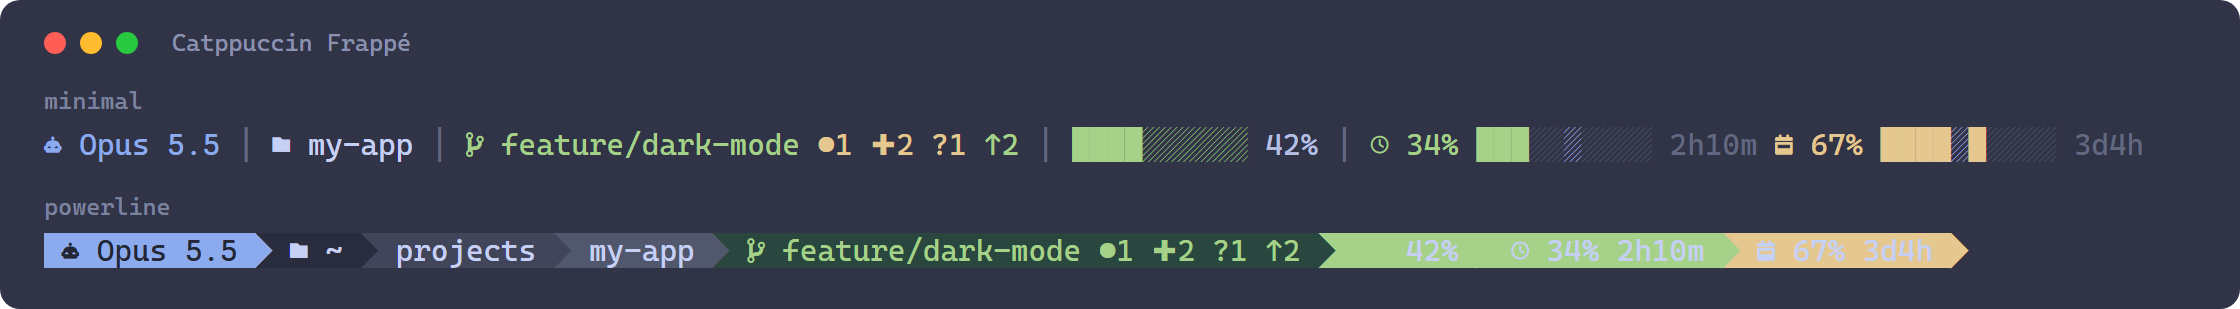
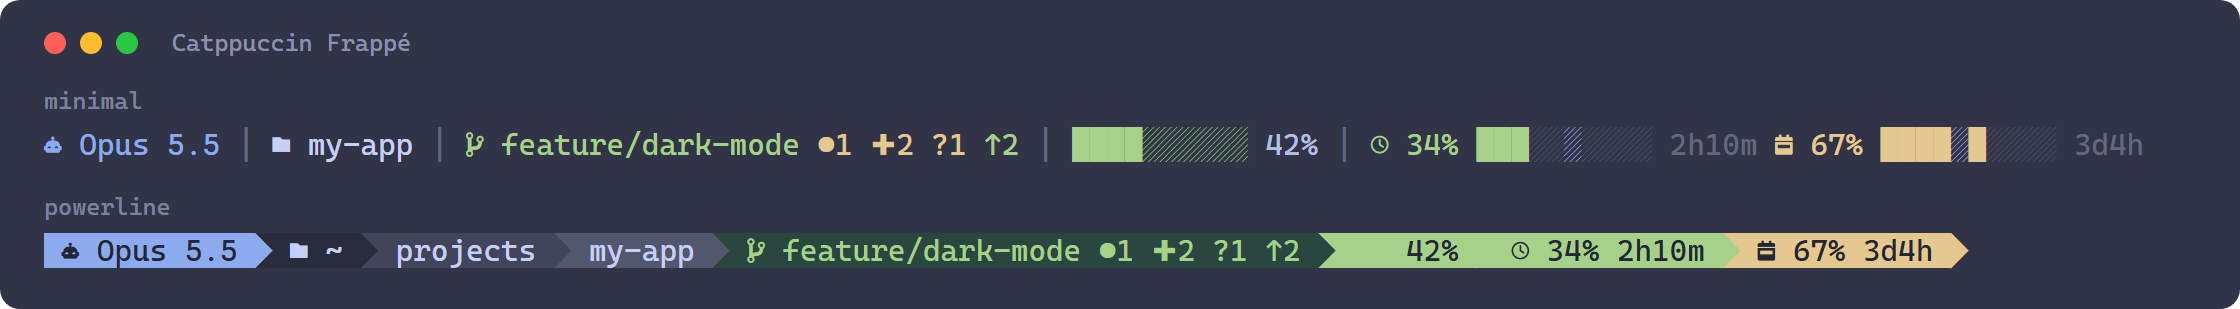
v0.1.1
### Fixed

- Powerline styles: the context and rate-limit segments were hard to read — light text on a light
  green / yellow / red background in the dark schemes. Their text color is now chosen per
  segment for the higher contrast (WCAG ratio ≥ 4.5 in every scheme)
- Catppuccin Latte, powerline styles: darker green for the git segment text

Changed region(s): [[0.625, 0.7573, 0.875, 0.8447]]

diff --git a/statusline.py b/statusline.py
@@ -5,7 +5,7 @@ from datetime import datetime, timezone
 
 sys.stdout = io.TextIOWrapper(sys.stdout.buffer, encoding="utf-8")
 
-__version__ = "0.1.0"
+__version__ = "0.1.1"
 
 # ── Config ──────────────────────────────────────────────────────────
 STYLE = "minimal"  # "minimal" | "powerline" | "powerline-short"
@@ -110,6 +110,7 @@ PALETTES = {
         "BAR_OK":   (180, 180, 180),  # Gray
         "BAR_WARN": (180, 180, 180),  # Gray
         "BAR_CRIT": (180, 180, 180),  # Gray
+        "FG_ON_BAR": ((30, 30, 30), (220, 220, 220)),  # (dark, light) text on BAR_* segments
     },
     "banana-blueberry": {
         "C_MODEL": "\033[38;2;34;232;223m",    # #22E8DF neon türkiz
@@ -132,6 +133,7 @@ PALETTES = {
         "BAR_OK":   (0, 189, 156),   # #00BD9C
         "BAR_WARN": (230, 198, 47),  # #E6C62F
         "BAR_CRIT": (255, 107, 127), # #FF6B7F
+        "FG_ON_BAR": ((23, 20, 31), (241, 241, 241)),  # #17141F / #F1F1F1
     },
     "catppuccin-frappe": {
         "C_MODEL": "\033[38;2;140;170;238m",   # #8caaee Blue
@@ -154,6 +156,7 @@ PALETTES = {
         "BAR_OK":   (166, 209, 137), # #a6d189 Green
         "BAR_WARN": (229, 200, 144), # #e5c890 Yellow
         "BAR_CRIT": (231, 130, 132), # #e78284 Red
+        "FG_ON_BAR": ((35, 38, 52), (198, 208, 245)),  # Crust / Text
     },
     "catppuccin-latte": {
         "C_MODEL": "\033[38;2;30;102;245m",    # #1e66f5 Blue
@@ -172,10 +175,13 @@ PALETTES = {
         "BG_GIT":   (210, 243, 219), # derived light green
         "FG_WHITE": (76, 79, 105),   # #4c4f69 Text (dark for light bg)
         "FG_MODEL": (239, 241, 245), # #eff1f5 Base (light for dark bg)
-        "FG_GIT":   (64, 160, 43),   # #40a02b Green
+        "FG_GIT":   (32, 96, 20),    # derived dark green, readable on BG_GIT
         "BAR_OK":   (64, 160, 43),   # #40a02b Green
         "BAR_WARN": (223, 142, 29),  # #df8e1d Yellow
         "BAR_CRIT": (210, 15, 57),   # #d20f39 Red
+        # Near-black rather than Latte's Text: no Latte color is dark enough to read on
+        # its mid-tone Green and Yellow.
+        "FG_ON_BAR": ((17, 17, 27), (239, 241, 245)),  # #11111b / Base
     },
     "catppuccin-macchiato": {
         "C_MODEL": "\033[38;2;138;173;244m",   # #8aadf4 Blue
@@ -198,6 +204,7 @@ PALETTES = {
         "BAR_OK":   (166, 218, 149), # #a6da95 Green
         "BAR_WARN": (238, 212, 159), # #eed49f Yellow
         "BAR_CRIT": (237, 135, 150), # #ed8796 Red
+        "FG_ON_BAR": ((24, 25, 38), (202, 211, 245)),  # Crust / Text
     },
     "catppuccin-mocha": {
         "C_MODEL": "\033[38;2;137;180;250m",   # #89b4fa Blue
@@ -220,6 +227,7 @@ PALETTES = {
         "BAR_OK":   (166, 227, 161), # #a6e3a1 Green
         "BAR_WARN": (249, 226, 175), # #f9e2af Yellow
         "BAR_CRIT": (243, 139, 168), # #f38ba8 Red
+        "FG_ON_BAR": ((17, 17, 27), (205, 214, 244)),  # Crust / Text
     },
 }
 
@@ -251,6 +259,26 @@ def _fg(r, g, b):
 
 def _bg(r, g, b):
     return f"\033[48;2;{r};{g};{b}m"
+
+def _luminance(rgb):
+    """WCAG relative luminance of an (r, g, b) color."""
+    def ch(v):
+        v /= 255
+        return v / 12.92 if v <= 0.03928 else ((v + 0.055) / 1.055) ** 2.4
+    r, g, b = rgb
+    return 0.2126 * ch(r) + 0.7152 * ch(g) + 0.0722 * ch(b)
+
+def _on_bar(bg):
+    """Text color for a BAR_* background: whichever FG_ON_BAR color contrasts more.
+
+    The bar colors run from dark to light within one scheme (Latte's Red vs its
+    Yellow), so a single fixed text color cannot stay readable on all of them.
+    """
+    bg_lum = _luminance(bg)
+    def contrast(fg):
+        hi, lo = sorted((_luminance(fg), bg_lum), reverse=True)
+        return (hi + 0.05) / (lo + 0.05)
+    return max(P["FG_ON_BAR"], key=contrast)
 
 def _segments(path):
     return [s for s in path.replace("\\", "/").split("/") if s]
@@ -420,17 +448,17 @@ if is_powerline:
 
     # Context segment (dynamic width)
     pad = max(1, pct * 8 // 100)
-    segs.append((BAR_RGB, FG_WHITE, f"{' ' * pad}{pct}%"))
+    segs.append((BAR_RGB, _on_bar(BAR_RGB), f"{' ' * pad}{pct}%"))
 
     # Rate limit segments (powerline) — one per window, individual severity color
     if SHOW_RATE_LIMITS in ("all", "5h") and rl_5h_pct:
         _, bg5 = _rl_color(rl_5h_pct)
         r5 = _fmt_reset(rl_5h.get("resets_at"))
-        segs.append((bg5, FG_WHITE, f"\uf017 {rl_5h_pct}% {r5}"))
+        segs.append((bg5, _on_bar(bg5), f"\uf017 {rl_5h_pct}% {r5}"))
     if SHOW_RATE_LIMITS in ("all", "7d") and rl_7d_pct:
         _, bg7 = _rl_color(rl_7d_pct)
         r7 = _fmt_reset(rl_7d.get("resets_at"))
-        segs.append((bg7, FG_WHITE, f"\uef38 {rl_7d_pct}% {r7}"))
+        segs.append((bg7, _on_bar(bg7), f"\uef38 {rl_7d_pct}% {r7}"))
 
     print(_powerline_chain(segs))
 

diff --git a/CHANGELOG.md b/CHANGELOG.md
@@ -5,6 +5,15 @@ All notable changes to this project are documented in this file.
 The format is based on [Keep a Changelog](https://keepachangelog.com/en/1.1.0/),
 and this project adheres to [Semantic Versioning](https://semver.org/spec/v2.0.0.html).
 
+## [0.1.1] - 2026-09-24
+
+### Fixed
+
+- Powerline styles: the context and rate-limit segments were hard to read — light text on a light
+  green / yellow / red background in the dark schemes. Their text color is now chosen per
+  segment for the higher contrast (WCAG ratio ≥ 4.5 in every scheme)
+- Catppuccin Latte, powerline styles: darker green for the git segment text
+
 ## [0.1.0] - 2026-09-16
 
 First public release.
@@ -22,4 +31,5 @@ First public release.
 - `/deploy` skill and deploy scripts for Windows (`scripts/deploy.ps1`) and macOS/Linux (`scripts/deploy.sh`)
 - Optional raw stdin dump (`CLAUDE_STATUSLINE_DUMP`) for inspecting the payload Claude Code sends
 
+[0.1.1]: https://github.com/speti4/claude-statusline/releases/tag/v0.1.1
 [0.1.0]: https://github.com/speti4/claude-statusline/releases/tag/v0.1.0
